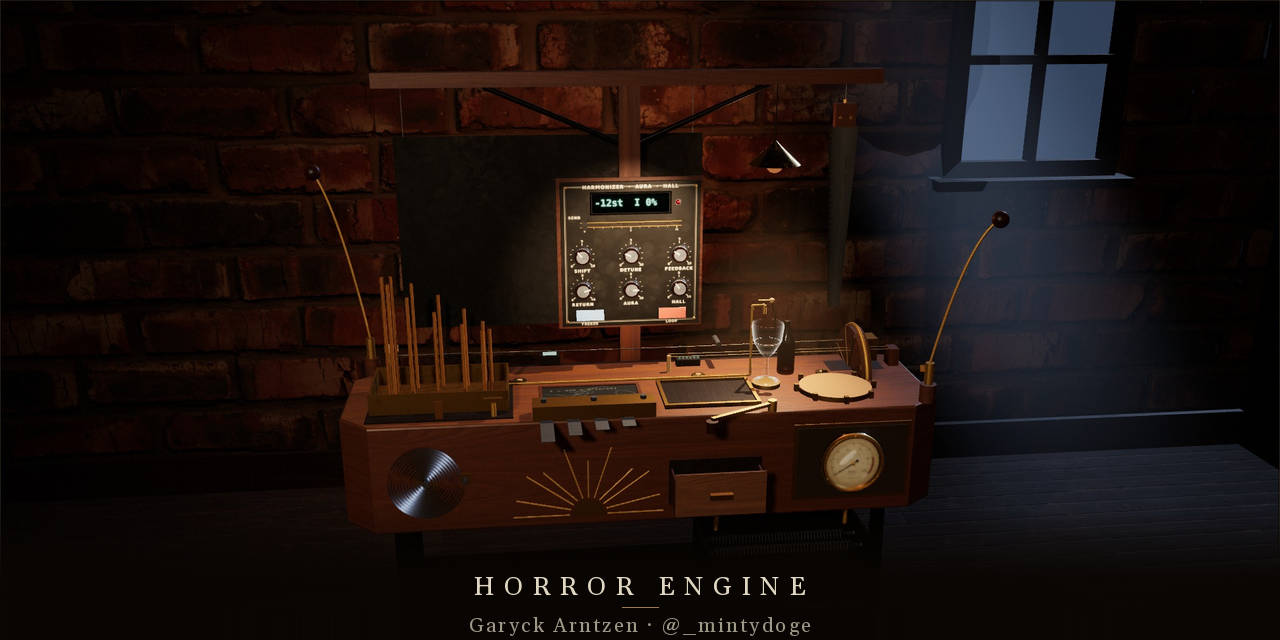
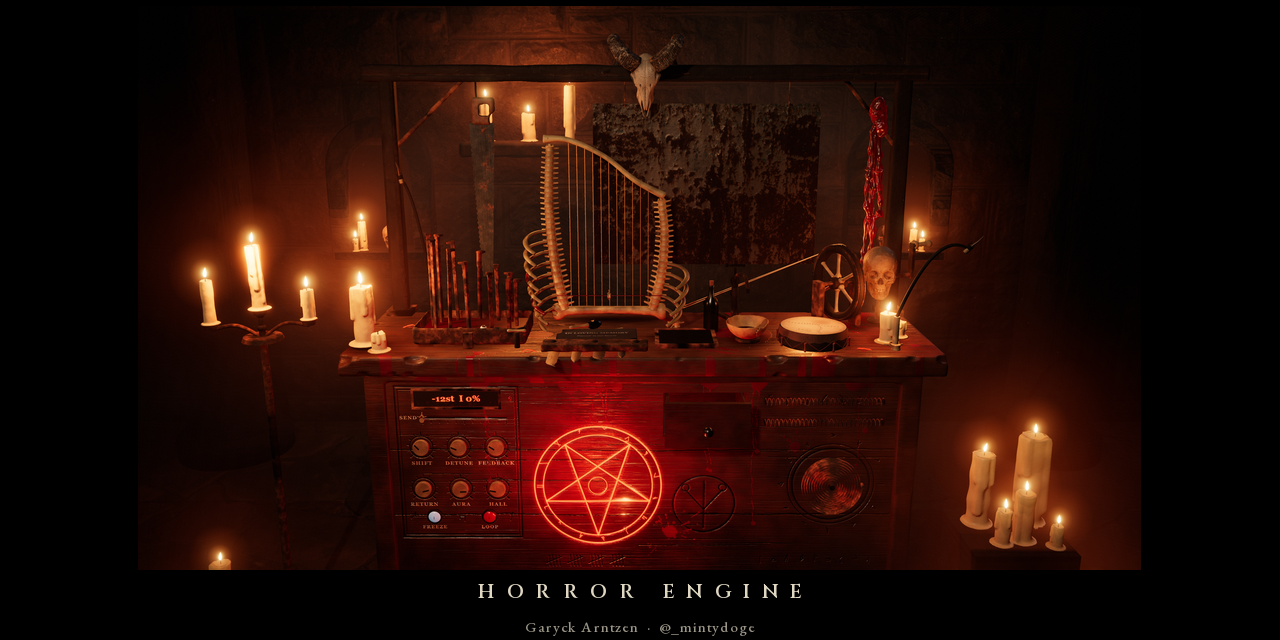
README: Altar frontal as the hero, workshop as a second picture
Swap the README hero for the new Altar front still (dread at half,
pentagram lit). Keep the old workshop hero as docs/media/workshop.jpg
and show it in the Skins section. Update the skin table to match the
1.1.0 altar (rail spikes, drone guts, pentagram glow with the Body
voice) and refresh the social preview.

diff --git a/README.md b/README.md
@@ -1,4 +1,4 @@
-![The Horror Engine in a dark brick cellar: a walnut cabinet with waterphone rods, a wine glass, a hurdy-gurdy wheel and two superball wands, the brass FX panel on a mast above it, one blue window high on the right](docs/media/hero.jpg)
+![The Horror Engine's Altar skin in a candle-lit crypt: a blood-stained wooden altar with rusted rail spikes, a ribcage harp, a hide drum, a skull bowl, a bone-spoked wheel, an iron plate under a goat skull, and a carved pentagram glowing on the front](docs/media/hero.jpg)
 
 # Horror Engine
 
@@ -8,7 +8,7 @@ A playable machine for horror sound that runs in your browser: nine physical mod
 
 ## What it is
 
-Horror Engine is a single-page instrument for scoring slow dread. You play it with the mouse, a pen, the computer keyboard or MIDI, and you can play it two ways. In **The Machine**, a 3D cabinet, you bow, scrape, strike and crank each part. **The Surface** is a flat gesture pad for the selected voice. Each sound is synthesised live from a model of a real object: a slack string, a rosined wheel, steel rulers, glass, springs, a tray of bolts.
+Horror Engine is a single-page instrument for scoring slow dread. You play it with the mouse, a pen, the computer keyboard or MIDI, and you can play it two ways. In **The Machine**, a 3D view of the instrument, you bow, scrape, strike and crank each part. It has two skins, Workshop and Altar, that share every voice; only the look changes (see [Skins](#skins)). **The Surface** is a flat gesture pad for the selected voice. Each sound is synthesised live from a model of a real object: a slack string, a rosined wheel, steel rulers, glass, springs, a tray of bolts.
 
 It owes its idea to the [Apprehension Engine](https://apprehensionengine.com/), the acoustic horror instrument conceived by composer Mark Korven and luthier Tony Duggan-Smith and built by Duggan-Smith. This project is not affiliated with either of them, and it uses none of their recordings or images. It is a separate, software take on the same idea: odd objects on a resonant box, played by hand.
 
@@ -35,29 +35,29 @@ Every part is bolted to one wooden body heard through a contact mic, so a knock 
 
 The Machine has two skins. They share every hit zone, gesture and voice; only the look changes. Switch with the **Skin** button above the view, or add `?skin=altar` (or `?skin=workshop`) to the address.
 
-![The Altar skin: a blood-stained altar with a ribcage harp, bones in a tray of blood, a goat idol over an iron plate and a wheel cranked through a skull](docs/media/altar.jpg)
+![Workshop skin: the Horror Engine in a dark brick cellar, a walnut cabinet with waterphone rods, a wine glass, a hurdy-gurdy wheel and two superball wands, the brass FX panel on a mast above it, one blue window high on the right](docs/media/workshop.jpg)
 
 | Workshop | Altar |
 |---|---|
 | Slack string, e-bow, slide bar | Ribcage harp strung with gut, lodestone, knuckle slide |
-| Waterphone rods in a water tray | Long bones standing in a tray of blood |
-| Hurdy-gurdy wheel and crank | A wheel cranked through a skull on a spike |
+| Waterphone rods in a water tray | Rusted rail spikes in a tray of blood |
+| Hurdy-gurdy wheel and crank | A wheel cranked through a skull on a spike, with two drone guts the wheel bows |
 | Wine glass and tap | Cracked skull bowl and a bleeding spout |
 | Glass pane, slate, bottle | Black mirror, grave slate, bottle |
 | Steel rulers and clamp, bow saw, clock spring | Rusted blades under an iron strap, bone saw, iron serpent |
 | Drumhead | Stitched hide drumhead |
-| Thunder sheet | Iron plate under a horned goat idol |
+| Thunder sheet | Iron plate under a beam-mounted goat skull |
 | Spring tank | Rusty coils beside hanging entrails |
 | Junk drawer and magnet | Drawer of bones and teeth, stirred by a claw |
 | Superballs | Eyes on stalks |
 | Lamp (Aura) | The altar candle |
-| Brass FX panel, body sunburst | Bone dials and a pentagram carved into the altar front |
+| Brass FX panel, body sunburst | Bone dials and a carved pentagram that glows with the Body voice |
 
-The Altar is built in code like the rest (`src/sculpt.js`, `src/altar.js`). Most of the bones, the idol and the blood are distance fields and procedural work meshed at load; the human skulls and the beam-mounted goat skull are packed scans (see [CREDITS.md](CREDITS.md)).
+The Altar is built in code like the rest (`src/sculpt.js`, `src/altar.js`). Most of the bones and the blood are distance fields and procedural work meshed at load; the human skulls and the beam-mounted goat skull are packed scans (see [CREDITS.md](CREDITS.md)).
 
 ## The FX panel
 
-The brass panel on the mast holds the effects that sit after the instruments:
+The FX panel holds the effects that sit after the instruments:
 
 - **SEND**, a slider: how much of the selected voice goes into the harmonizer.
 - **SHIFT**, **DETUNE**, **FEEDBACK** and **RETURN**: the harmonizer. It is an octave down by default, split into two voices detuned left and right, with feedback that stacks the shift into a falling spiral.

diff --git a/docs/INSTRUMENTS.md b/docs/INSTRUMENTS.md
@@ -253,7 +253,7 @@ Each voice also feeds the shared wooden **Body** by a fixed amount. Struck metal
 
 ### Water
 
-The waterphone tray and its water are shared by the rods (bowed and struck), bells, clock springs and the superball on the metal sheet and the rods. The Water knobs appear under Bowed metal, Struck metal and the Superball.
+The waterphone tray and its water are shared by the rods (bowed and struck), bells, clock springs and the superball on the metal sheet and the rods. The Water knobs appear under Bowed metal, Struck metal and the Superball. On the Altar the rods are rusted rail spikes in a tray of blood.
 
 - **Water**: how much the submerged modes wobble in pitch.
 - **Slosh**: how fast they wobble (about 0.3–3 Hz).
@@ -264,7 +264,7 @@ On the Machine, grab the tray by its rim and push one end down to rock it. It sw
 
 ### Body and piezo
 
-Every part is bolted to one wooden box heard through a contact mic.
+Every part is bolted to one wooden box heard through a contact mic. On the Altar, the carved pentagram and the wax seals glow with the Body voice.
 
 - **Body**: how much the box rings along with each voice.
 - **Piezo**: from the warm box toward the quacky, bass-light contact-mic sound. On the Machine, click the piezo disc to step through 0, 40% and 80%.
